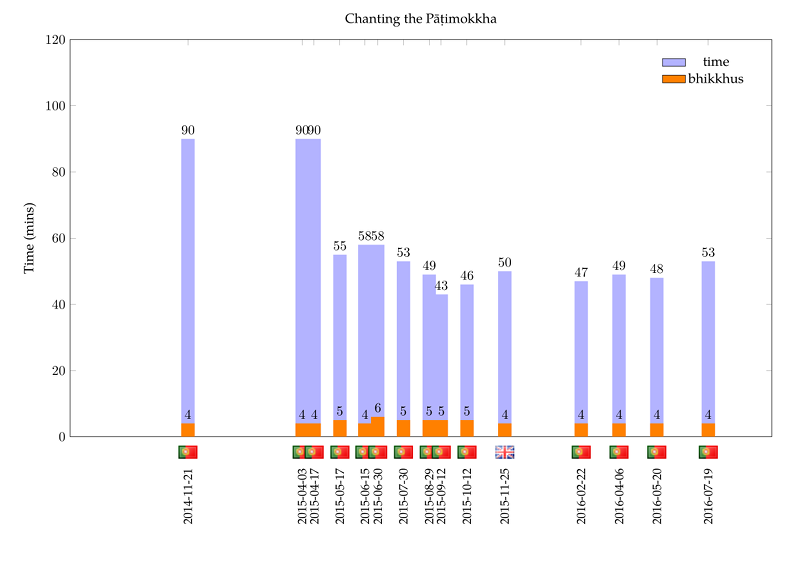
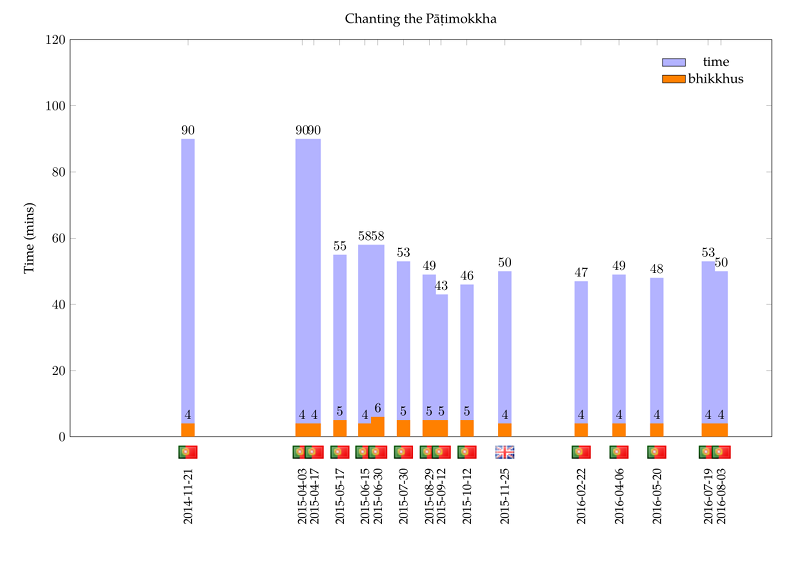
upd

Changed region(s): [[0.875, 0.4521, 0.9375, 0.8138], [0.875, 0.844, 0.9062, 0.9344]]

diff --git a/src/patimokkha-chanting-chart.tex b/src/patimokkha-chanting-chart.tex
@@ -98,6 +98,7 @@
   \node [anchor=south, yshift=-20pt] at (axis cs:2016-04-06,0) {\includegraphics[width=5mm]{pt}};
   \node [anchor=south, yshift=-20pt] at (axis cs:2016-05-20,0) {\includegraphics[width=5mm]{pt}};
   \node [anchor=south, yshift=-20pt] at (axis cs:2016-07-19,0) {\includegraphics[width=5mm]{pt}};
+  \node [anchor=south, yshift=-20pt] at (axis cs:2016-08-03,0) {\includegraphics[width=5mm]{pt}};
 
 \end{axis}
 \end{tikzpicture}
